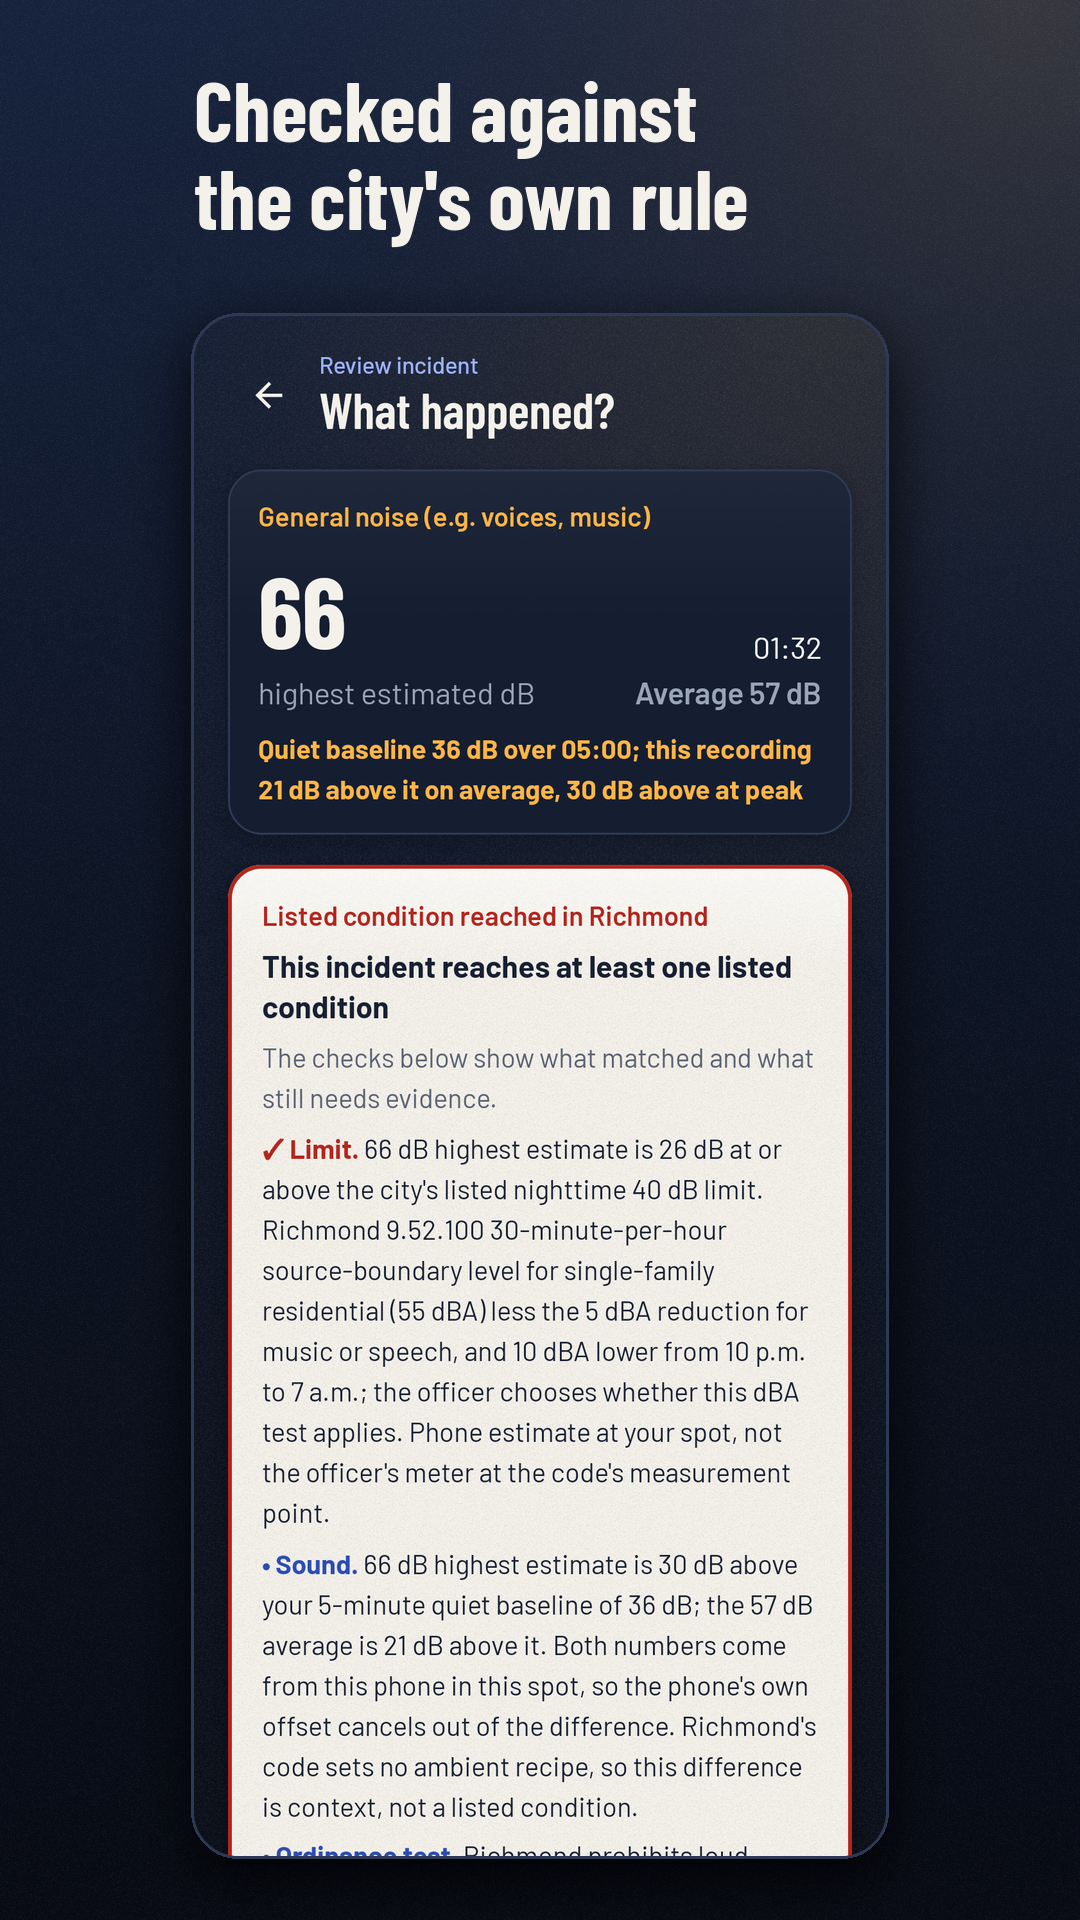
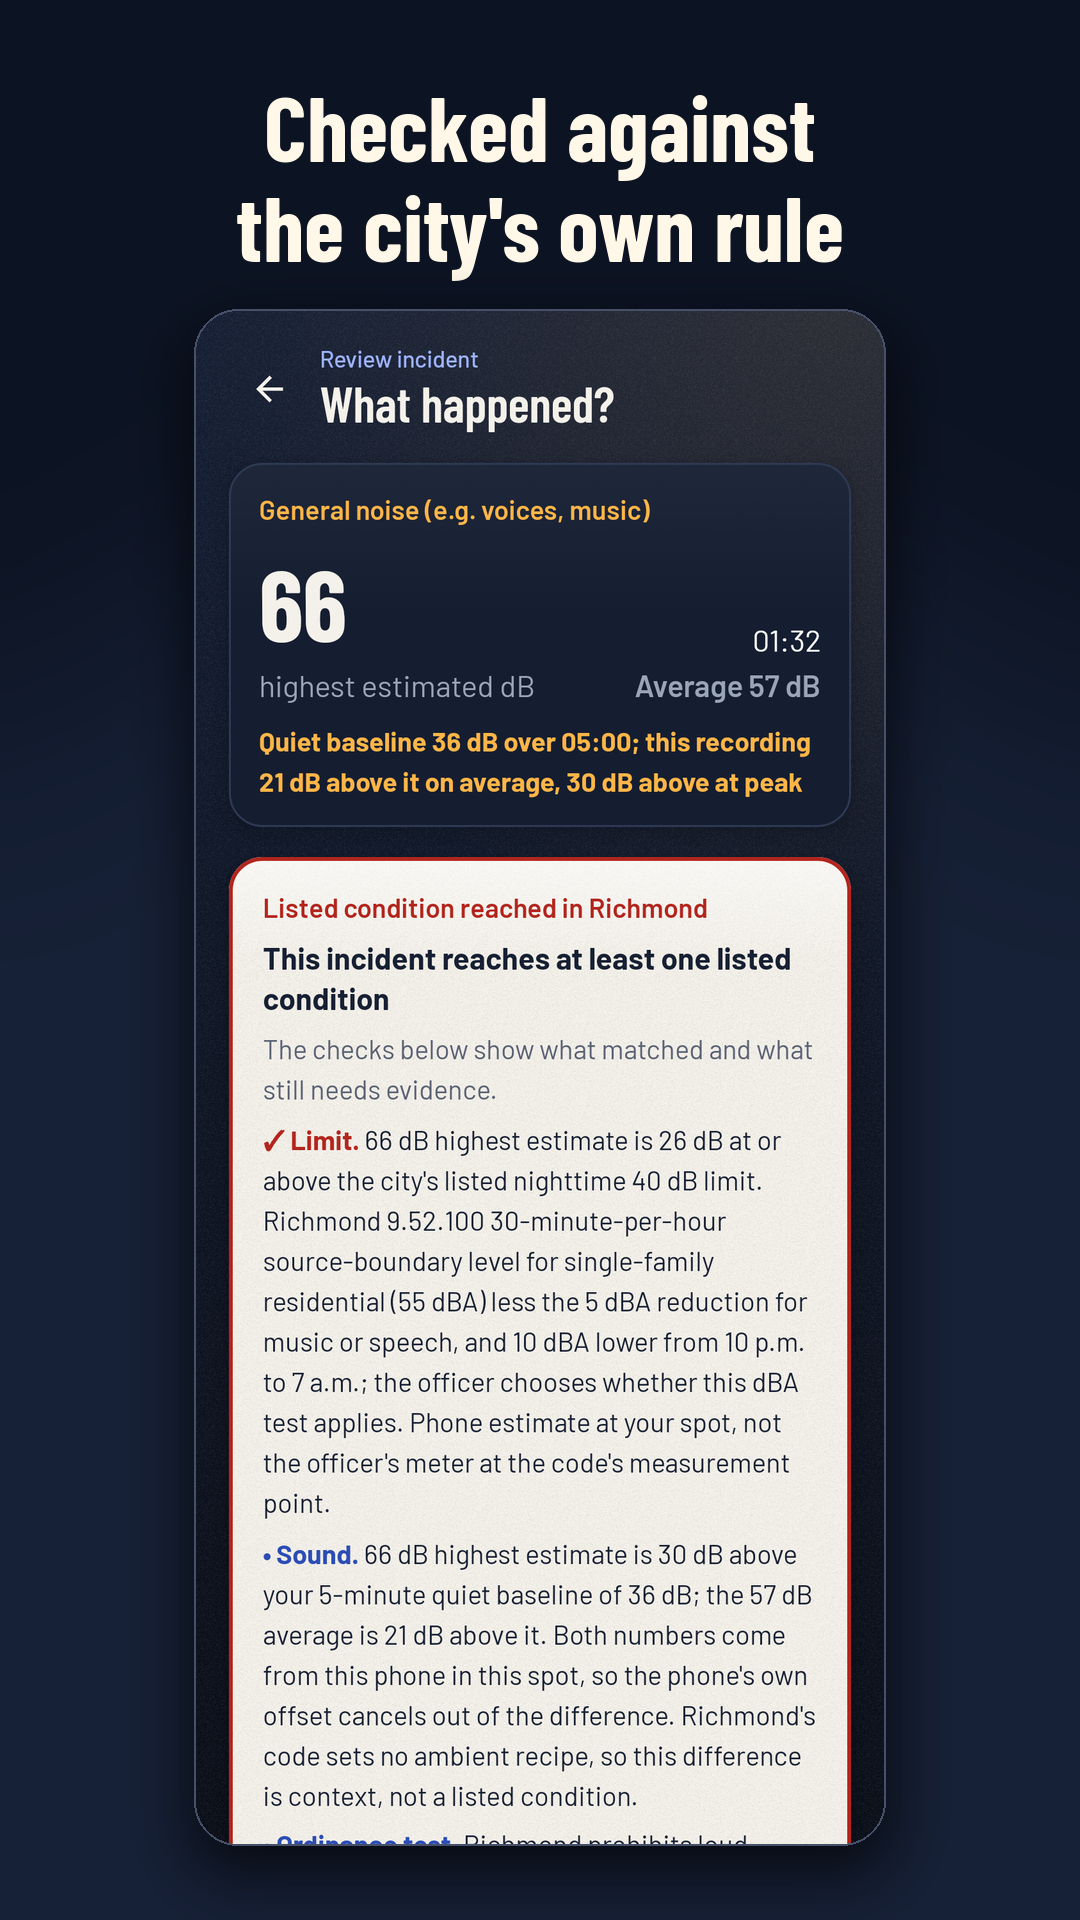
Store screenshots for 0.30.2, framed by scripts/frame_store_screens.py [skip ci]
Claude-Session: https://claude.ai/code/session_01ARqZMKTKZCnUWirXkSdpi6

diff --git a/scripts/frame_store_screens.py b/scripts/frame_store_screens.py
@@ -1,0 +1,59 @@
+#!/usr/bin/env python3
+"""Frame the CI-drawn store screenshots (artifact noisefile-store-screens, 1078x2399)
+into 1080x1920 Play images with a caption on top. Usage: frame_store_screens.py <in_dir> <out_dir>"""
+import sys, os
+from PIL import Image, ImageDraw, ImageFont, ImageFilter
+
+CAPTIONS = {
+    "01-home": "See your city's limit\nbefore you record",
+    "02-recording": "A red mark when the noise\nreaches the limit",
+    "03-review": "Checked against\nthe city's own rule",
+    "04-incidents": "Every incident sealed\nand kept on your phone",
+    "05-rules": "The law in the city's\nown words",
+    "06-more": "Baselines, the tour,\nand one paid part",
+    "07-form-guide": "The city's form,\nbox by box",
+}
+W, H = 1080, 1920
+FONT = os.path.join(os.path.dirname(__file__), "..", "app/src/main/res/font/barlow_condensed_bold.ttf")
+
+def frame(src, dst, caption):
+    shot = Image.open(src).convert("RGB")
+    canvas = Image.new("RGB", (W, H), (12, 19, 34))
+    # soft vertical glow behind the phone
+    glow = Image.new("RGB", (W, H), (12, 19, 34))
+    gd = ImageDraw.Draw(glow)
+    gd.ellipse((-200, 500, W + 200, H + 300), fill=(22, 32, 54))
+    glow = glow.filter(ImageFilter.GaussianBlur(120))
+    canvas.paste(glow)
+    draw = ImageDraw.Draw(canvas)
+    font = ImageFont.truetype(FONT, 92)
+    y = 70
+    for line in caption.split("\n"):
+        tw = draw.textlength(line, font=font)
+        draw.text(((W - tw) / 2, y), line, font=font, fill=(255, 247, 232))
+        y += 100
+    # the phone: scale to width 690, rounded corners, drop shadow, top aligned under the caption, cropped at the bottom edge
+    pw = 690
+    ph = int(shot.height * pw / shot.width)
+    phone = shot.resize((pw, ph), Image.LANCZOS)
+    radius = 44
+    mask = Image.new("L", (pw, ph), 0)
+    ImageDraw.Draw(mask).rounded_rectangle((0, 0, pw, ph), radius=radius, fill=255)
+    top = y + 40
+    shadow = Image.new("RGBA", (W, H), (0, 0, 0, 0))
+    ImageDraw.Draw(shadow).rounded_rectangle(((W - pw) // 2 - 6, top + 18, (W + pw) // 2 + 6, top + ph + 30), radius=radius + 6, fill=(0, 0, 0, 170))
+    shadow = shadow.filter(ImageFilter.GaussianBlur(28))
+    canvas.paste(shadow, (0, 0), shadow)
+    canvas.paste(phone, ((W - pw) // 2, top), mask)
+    # bezel line
+    ImageDraw.Draw(canvas).rounded_rectangle(((W - pw) // 2 - 1, top - 1, (W + pw) // 2, top + ph), radius=radius, outline=(70, 80, 105), width=2)
+    canvas.save(dst, optimize=True)
+
+if __name__ == "__main__":
+    src_dir, out_dir = sys.argv[1], sys.argv[2]
+    os.makedirs(out_dir, exist_ok=True)
+    for name, caption in CAPTIONS.items():
+        src = os.path.join(src_dir, name + ".png")
+        if os.path.isfile(src):
+            frame(src, os.path.join(out_dir, name + ".png"), caption)
+            print("framed", name)
